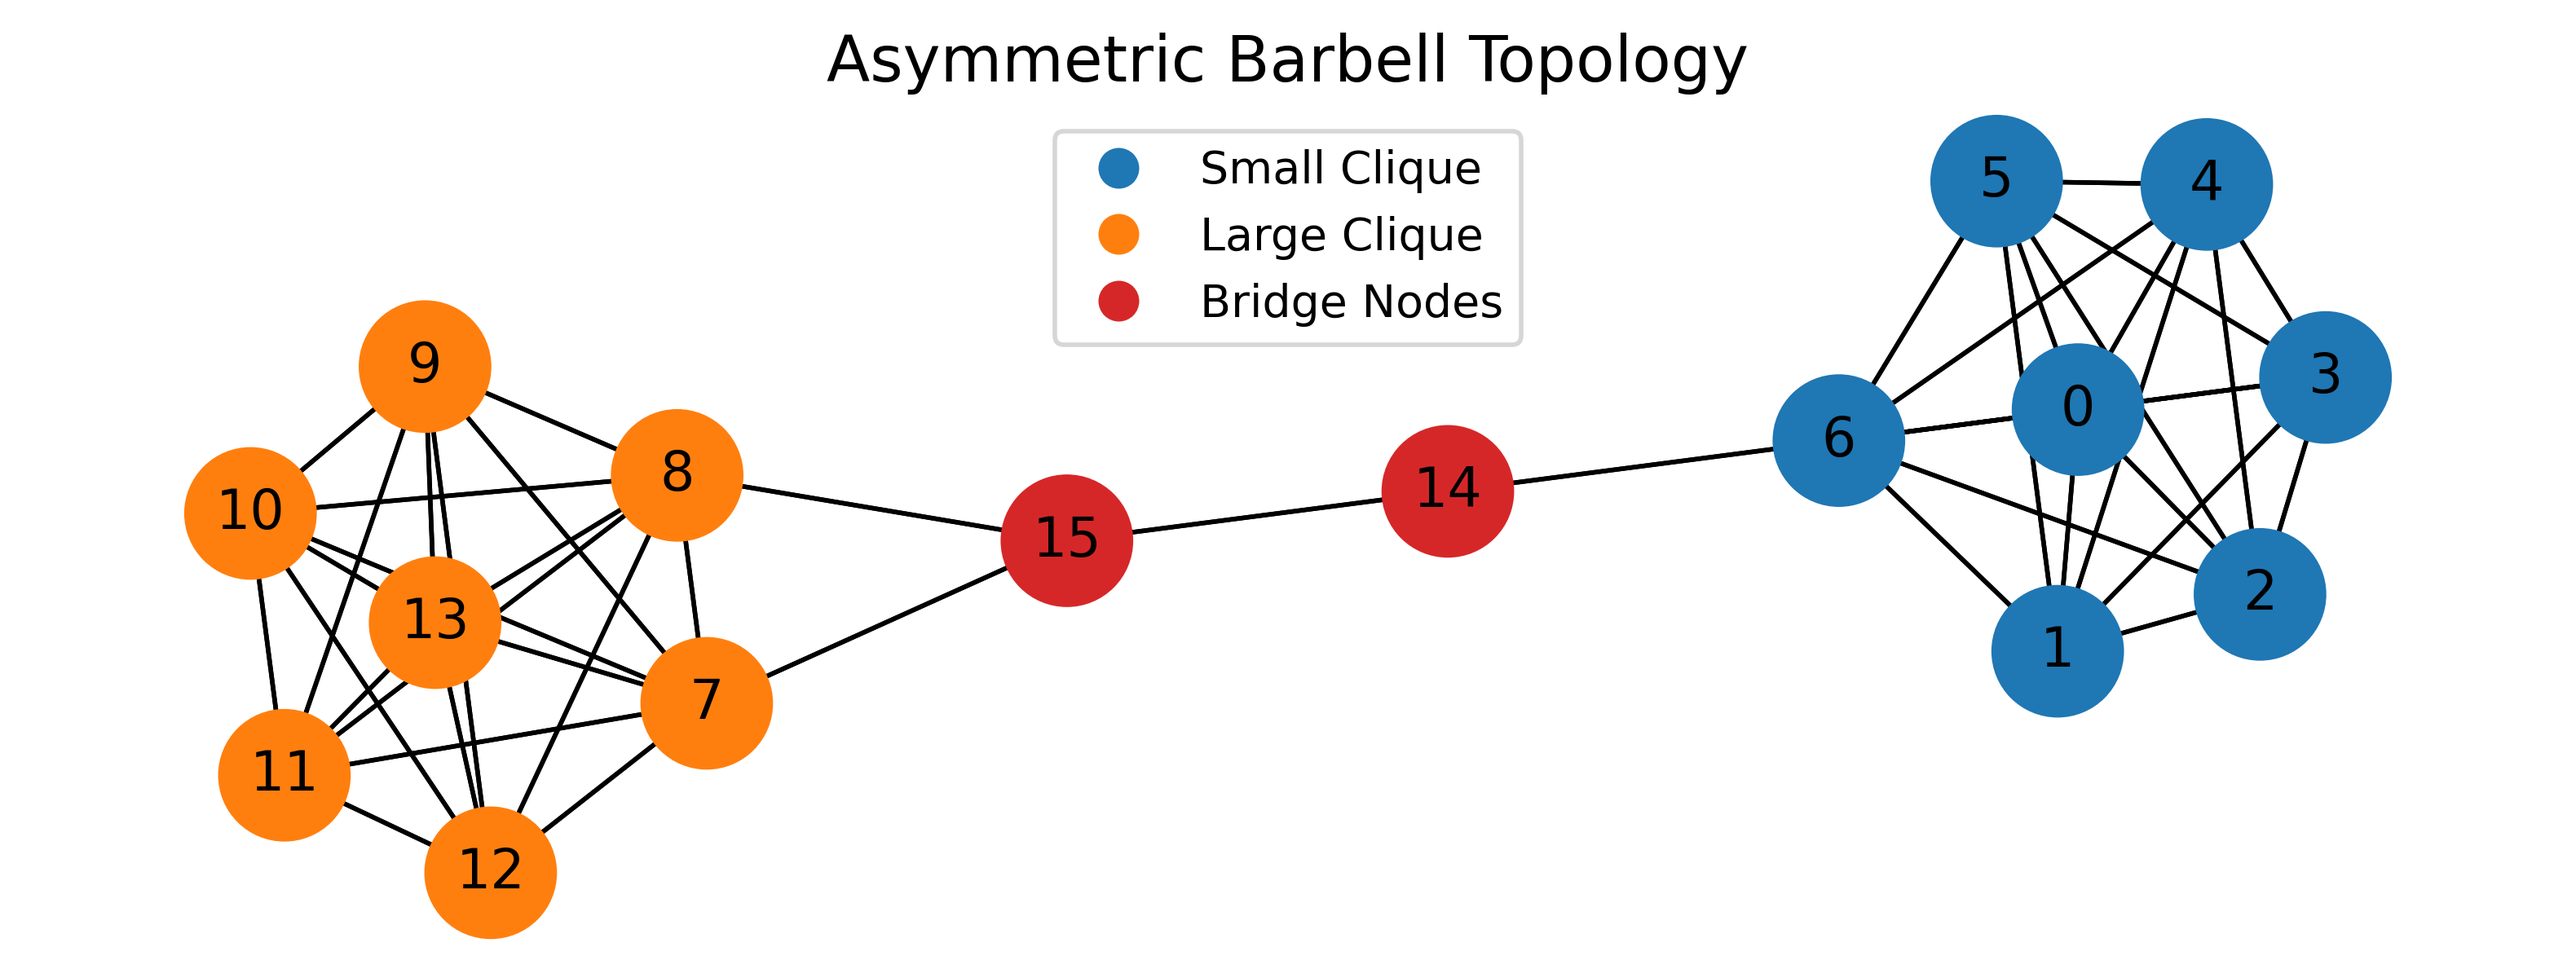
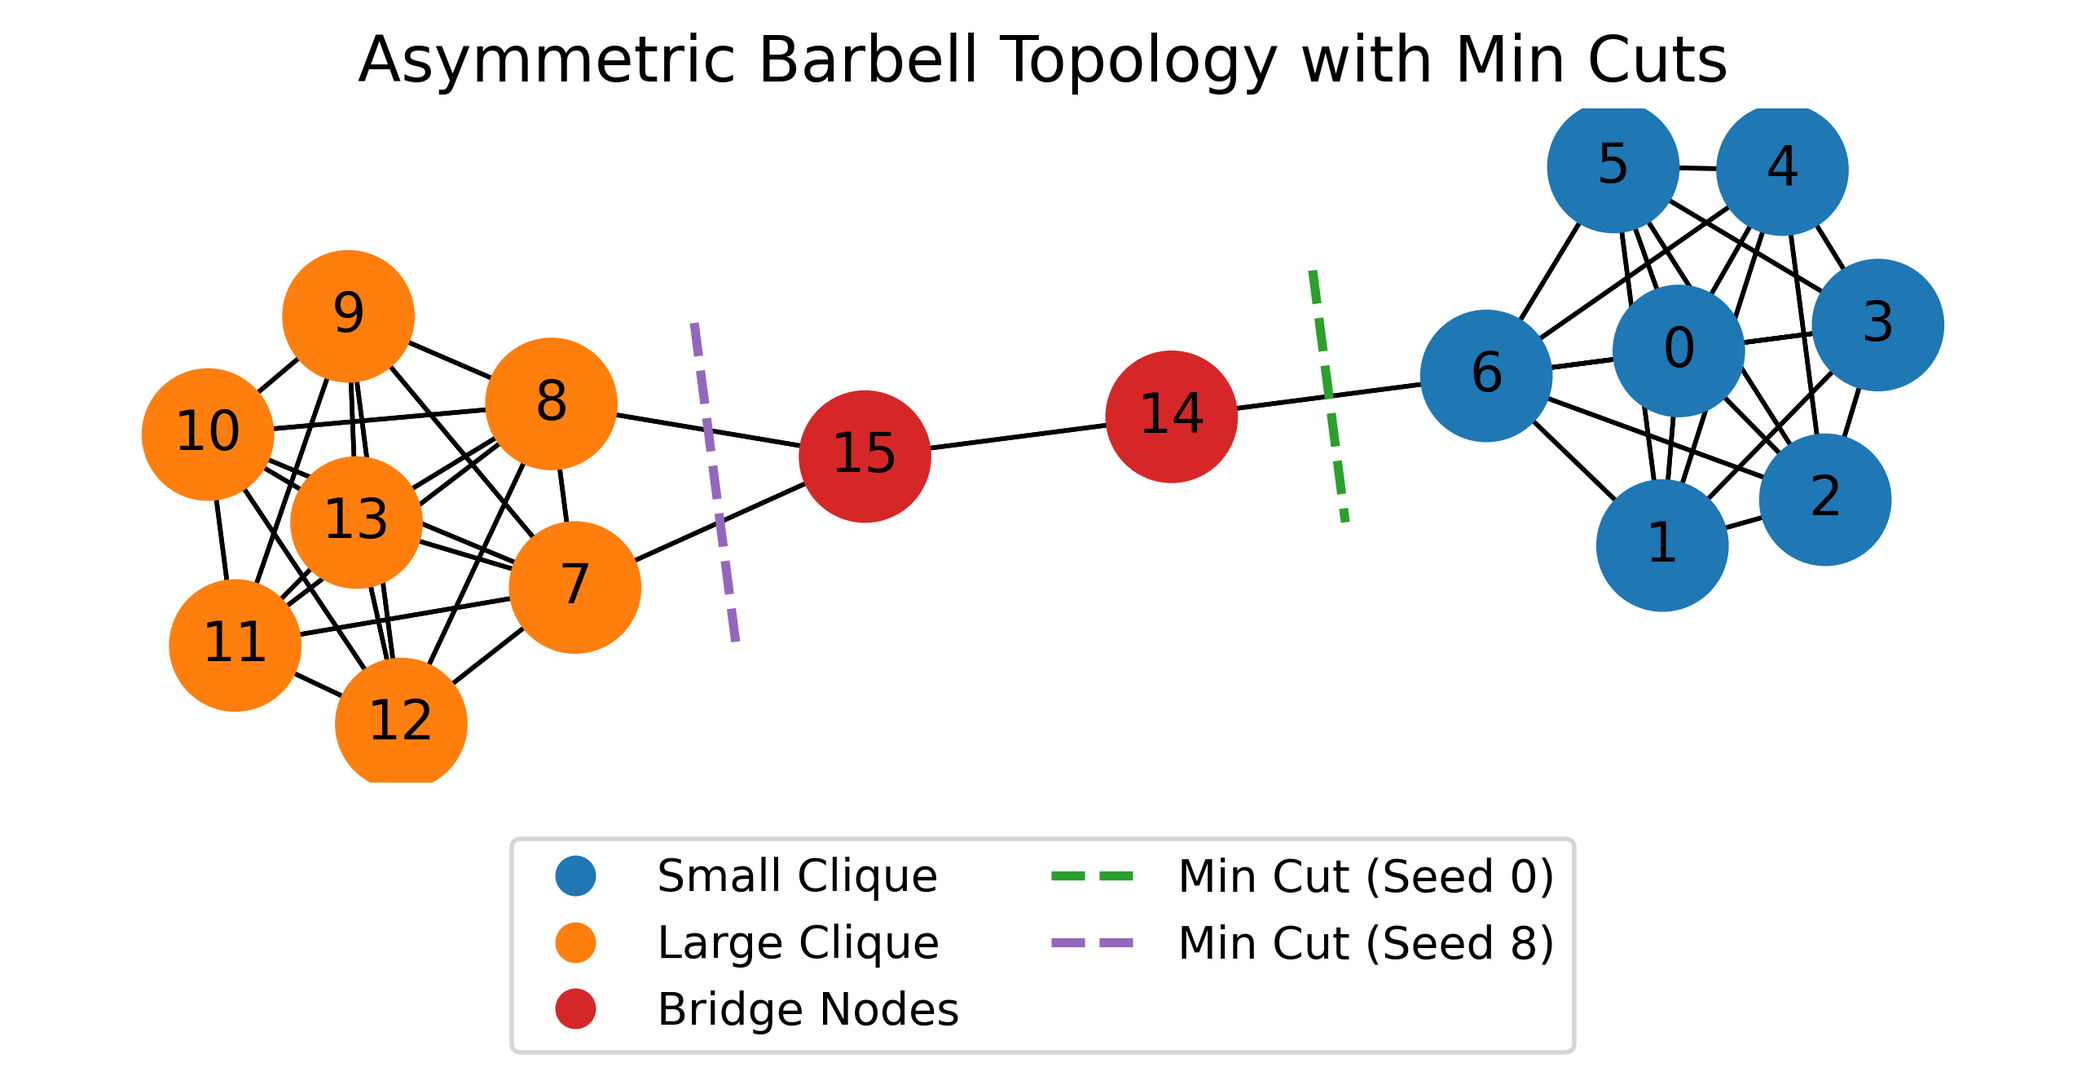
Adding utility function to plot min-cut

Changed region(s): [[0.0625, 0.0308, 0.9375, 0.9867], [0.625, 0.2467, 0.6562, 0.2775]]

diff --git a/plot__min_cuts.py b/plot__min_cuts.py
@@ -1,0 +1,300 @@
+"""
+Plotting Min-Cut Edges
+-----------------------------------------------------
+Graph:
+    Large two cliques + two gates (N=16)
+
+Threshold:
+    gamma = 0.5  -> threshold_size = 8
+
+Seeds:
+    seed 0  -> cut 1
+    seed 8  -> cut 2
+"""
+
+import numpy as np
+import matplotlib.pyplot as plt
+from collections import deque
+from tqdm import tqdm
+import networkx as nx
+from matplotlib.lines import Line2D
+
+
+# ============================================================
+# USER PARAMETERS
+# ============================================================
+
+w = 0.05
+SEEDS = [0, 8]
+
+gamma = 0.5
+
+ROTATION_DEGREES = 50
+
+# ============================================================
+# GRAPH CONSTRUCTION
+# ============================================================
+
+def make_large_two_cliques_two_gates():
+    G = nx.DiGraph()
+
+    A = list(range(0, 7))
+    B = list(range(7, 14))
+    h1, h2 = 14, 15
+
+    for i in A:
+        for j in A:
+            if i != j:
+                G.add_edge(i, j)
+
+    for i in B:
+        for j in B:
+            if i != j:
+                G.add_edge(i, j)
+
+    G.add_edge(h1, h2)
+    G.add_edge(h2, h1)
+
+    G.add_edge(6, h1)
+    G.add_edge(h1, 6)
+
+    G.add_edge(h2, 7)
+    G.add_edge(h2, 8)
+    G.add_edge(7, h2)
+    G.add_edge(8, h2)
+
+    return G
+
+
+# ============================================================
+# ROTATION (TOPOLOGY ONLY)
+# ============================================================
+
+def rotate_positions(pos, degrees_clockwise):
+
+    coords = np.array([pos[n] for n in pos.keys()])
+    coords -= coords.mean(axis=0)
+
+    theta = -np.deg2rad(degrees_clockwise)
+
+    R = np.array([
+        [np.cos(theta), -np.sin(theta)],
+        [np.sin(theta),  np.cos(theta)]
+    ])
+
+    rotated = coords @ R.T
+
+    return {node: rotated[i] for i, node in enumerate(pos.keys())}
+
+
+
+# ============================================================
+# REACHABILITY + CUT
+# ============================================================
+
+def reachable_transient_sets(G, seed, threshold_size):
+    visited = set()
+    q = deque()
+    start = frozenset([seed])
+    visited.add(start)
+    q.append(start)
+
+    while q:
+        I = q.popleft()
+
+        if len(I) >= threshold_size:
+            continue
+
+        frontier = set()
+        for i in I:
+            frontier.update(G[i])
+        frontier -= set(I)
+
+        for j in frontier:
+            new_set = frozenset(set(I) | {j})
+            if len(new_set) >= threshold_size:
+                continue
+            if new_set not in visited:
+                visited.add(new_set)
+                q.append(new_set)
+
+    return visited
+
+
+def boundary_size(G, I):
+    b = 0
+    Iset = set(I)
+    for k in Iset:
+        for j in G[k]:
+            if j not in Iset:
+                b += 1
+    return b
+
+
+def compute_kappa(G, reachable_transient, w, return_set):
+    min_cut = float("inf")
+    I_min = None
+    for I in reachable_transient:
+        b = boundary_size(G, I)
+        if b < min_cut:
+            min_cut = b
+            I_min = I
+    kappa_v = -np.log1p(-w) * min_cut
+    if return_set:
+      return kappa_v, min_cut, I_min
+    return kappa_v, min_cut
+
+
+def plot_cut_lines(ax, G, pos, I_min, color, single_line=False):
+    """
+    Plots boundary edges for the set I_min.
+    If single_line is True, projects a single separating line based on cluster centroids.
+    """
+    cut_edges = [(u, v) for u in I_min for v in G[u] if v not in I_min]
+    if not cut_edges:
+        return
+
+    if single_line:
+        # Calculate centroids of the two sets
+        I_min_nodes = list(I_min)
+        other_nodes = [n for n in G.nodes() if n not in I_min]
+
+        c1 = np.mean([pos[n] for n in I_min_nodes], axis=0)
+        c2 = np.mean([pos[n] for n in other_nodes], axis=0)
+
+        # Calculate mean midpoint of all cut edges
+        midpoints = []
+        for u, v in cut_edges:
+            midpoints.append((np.array(pos[u]) + np.array(pos[v])) / 2.0)
+        center_point = np.mean(midpoints, axis=0)
+
+        # Calculate perpendicular vector to the centroid axis
+        vec = c2 - c1
+        norm = np.linalg.norm(vec)
+        if norm != 0:
+            ortho = np.array([-vec[1], vec[0]]) / norm
+
+            # Define line length (heuristically scaled by graph size)
+            pos_array = np.array(list(pos.values()))
+            graph_span = np.max(pos_array) - np.min(pos_array)
+            line_half_len = graph_span * 0.1
+
+            start = center_point - line_half_len * ortho
+            end = center_point + line_half_len * ortho
+
+            ax.plot([start[0], end[0]], [start[1], end[1]],
+                    color=color, linestyle='--', linewidth=2, zorder=5)
+    else:
+        # Standard orthogonal line per edge
+        for u, v in cut_edges:
+            p1, p2 = np.array(pos[u]), np.array(pos[v])
+            mid = (p1 + p2) / 2.0
+            vec = p2 - p1
+            norm = np.linalg.norm(vec)
+
+            if norm == 0:
+                continue
+
+            ortho = np.array([-vec[1], vec[0]]) / norm
+            cut_half_len = norm * 0.4
+
+            start = mid - cut_half_len * ortho
+            end = mid + cut_half_len * ortho
+
+            ax.plot([start[0], end[0]], [start[1], end[1]],
+                    color=color, linestyle='--', linewidth=2, zorder=5)
+
+# ============================================================
+# MAIN
+# ============================================================
+
+G = make_large_two_cliques_two_gates()
+
+pos = nx.kamada_kawai_layout(G)
+rot_pos = rotate_positions(pos, ROTATION_DEGREES)
+
+clique_small = set(range(0, 7))
+clique_large = set(range(7, 14))
+N_NODES = len(G)
+threshold_size = int(np.ceil(gamma * N_NODES))
+
+print("\nGraph: Large two cliques + two gates")
+print("threshold_size =", threshold_size)
+
+seed_info = {}
+kappas = []
+
+return_set = True
+
+for seed in SEEDS:
+    R_trans = reachable_transient_sets(G, seed, threshold_size)
+    if return_set:
+        kappa_v, min_cut, nodes = compute_kappa(G, R_trans, w, return_set)
+    else:
+        kappa_v, min_cut = compute_kappa(G, R_trans, w, return_set)
+        nodes = None
+
+    # Modified: Store nodes in the dictionary
+    seed_info[seed] = dict(kappa_v=kappa_v, min_cut=min_cut, nodes=nodes)
+    kappas.append(kappa_v)
+
+    print(f"\nSeed {seed}")
+    print("  min_cut =", min_cut)
+    print("  κ_v =", kappa_v)
+    print("  nodes =", nodes)
+
+# ============================================================
+# FIGURE 1
+# ============================================================
+
+fig1 = plt.figure(figsize=(8, 4))
+ax1 = fig1.add_subplot(111)
+
+node_colors = []
+for node in G.nodes():
+    if node in clique_small:
+        node_colors.append("tab:blue")
+    elif node in clique_large:
+        node_colors.append("tab:orange")
+    else:
+        node_colors.append("tab:red")
+
+nx.draw_networkx_nodes(G, rot_pos, ax=ax1,
+                       node_color=node_colors, node_size=800)
+nx.draw_networkx_edges(G, rot_pos, ax=ax1, arrows=False)
+nx.draw_networkx_labels(G, rot_pos, ax=ax1)
+
+legend_elements = [
+    Line2D([0], [0], marker='o', color='w', label='Small Clique',
+           markerfacecolor='tab:blue', markersize=10),
+    Line2D([0], [0], marker='o', color='w', label='Large Clique',
+           markerfacecolor='tab:orange', markersize=10),
+    Line2D([0], [0], marker='o', color='w', label='Bridge Nodes',
+           markerfacecolor='tab:red', markersize=10),
+]
+
+seed_cut_colors = {0: "tab:green", 8: "tab:purple"}
+
+for seed in SEEDS:
+    I_min = seed_info[seed]["nodes"]
+    if I_min is not None:
+        # Apply the single line heuristic exclusively for seed 8
+        use_single_line = (seed == 8)
+
+        plot_cut_lines(ax1, G, rot_pos, I_min, seed_cut_colors[seed], single_line=use_single_line)
+
+        legend_elements.append(
+            Line2D([0], [0], color=seed_cut_colors[seed], linestyle='--',
+                   linewidth=2, label=f'Min Cut (Seed {seed})')
+        )
+
+ax1.legend(handles=legend_elements, loc='upper center', bbox_to_anchor=(0.5, -0.05), ncol=2)
+ax1.set_aspect('equal')
+ax1.axis("off")
+ax1.set_title("Asymmetric Barbell Topology with Min Cuts", fontsize=14)
+
+plt.savefig("./topology.png", bbox_inches='tight',dpi=400)
+
+plt.tight_layout()
+plt.show()
+
